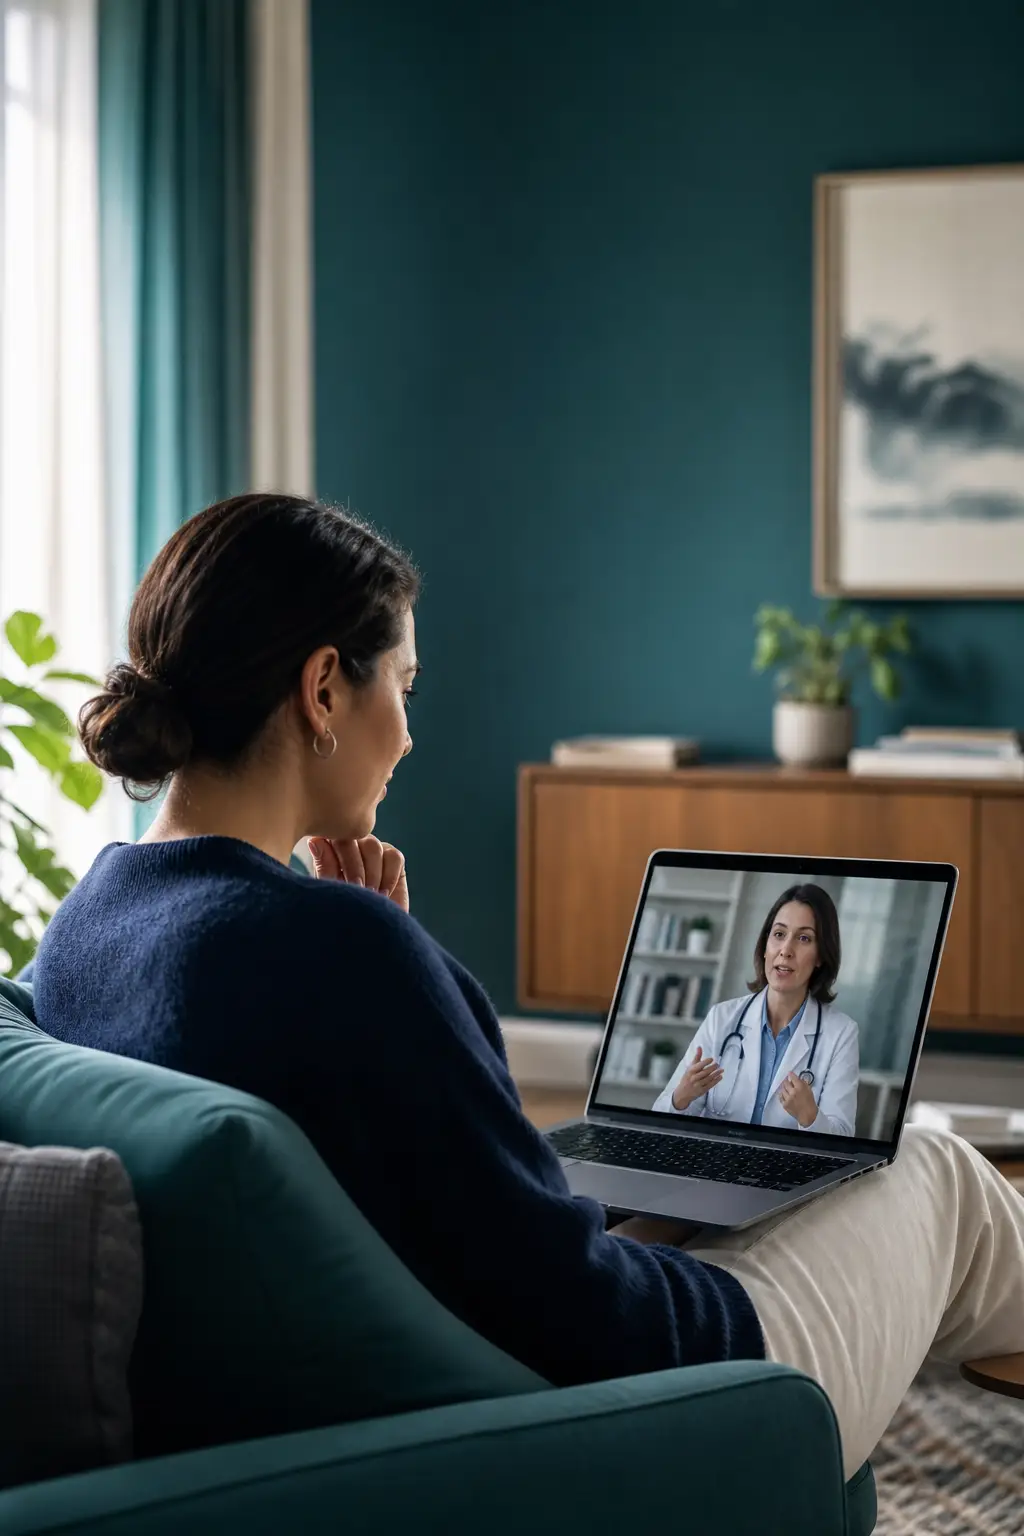
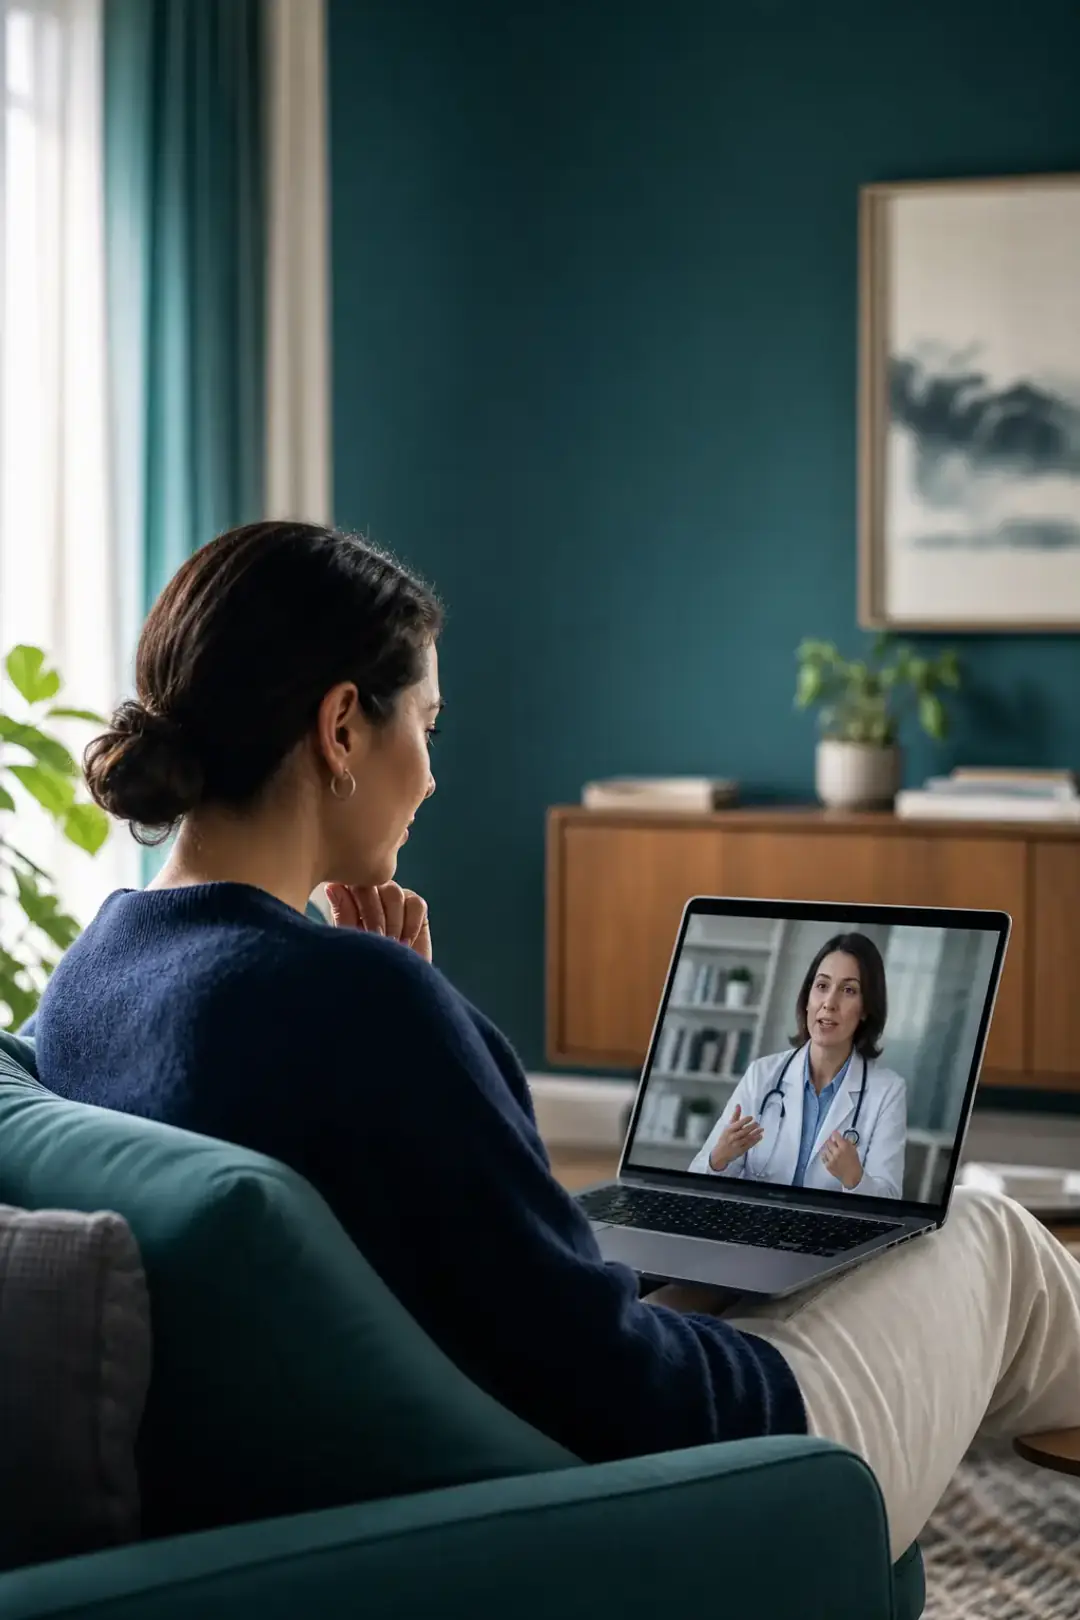
Optimize homepage hero assets for faster LCP with matched desktop/mobile crops.

diff --git a/src/index.css b/src/index.css
@@ -727,19 +727,24 @@ ul { list-style: none; }
 
 .hero__media-frame--desktop {
   display: none;
-  aspect-ratio: 4 / 3;
+  aspect-ratio: 3 / 2;
   min-height: clamp(22rem, 42vw, 34rem);
 }
 
 .hero__media-frame--mobile {
-  aspect-ratio: 4 / 5;
-  max-height: min(78vh, 620px);
+  aspect-ratio: 2 / 3;
+  max-height: min(78vh, 640px);
   margin-inline: auto;
   width: min(100%, 460px);
 }
 
 .hero__media-image {
   object-fit: cover;
+  object-position: center 28%;
+}
+
+.hero__media-frame--mobile .hero__media-image {
+  object-position: center 22%;
 }
 
 .hero-feature {
@@ -2091,7 +2096,7 @@ ul { list-style: none; }
 
   .hero__media-frame--mobile {
     width: 100%;
-    max-height: min(68vh, 480px);
+    max-height: min(78vh, 640px);
   }
   .hero h1 {
     font-size: clamp(2.55rem, 12vw, 3.35rem);

diff --git a/components/HomeHero.jsx b/components/HomeHero.jsx
@@ -58,8 +58,8 @@ export default function HomeHero() {
               alt={media.heroHomeDesktop.alt}
               fill
               priority
-              sizes="(max-width: 1023px) 0px, 50vw"
-              quality={68}
+              sizes="(max-width: 1023px) 0px, min(50vw, 800px)"
+              quality={70}
               className="hero__media-image"
             />
           </div>
@@ -69,8 +69,8 @@ export default function HomeHero() {
               alt={media.heroHomeMobile.alt}
               fill
               priority
-              sizes="(max-width: 1023px) 100vw, 0px"
-              quality={66}
+              sizes="(max-width: 1023px) min(100vw, 460px), 0px"
+              quality={68}
               className="hero__media-image"
             />
           </div>

diff --git a/lib/media.js b/lib/media.js
@@ -4,14 +4,14 @@ export const media = {
   heroHomeDesktop: {
     src: '/images/hero-home-desktop.webp',
     alt: 'Patient connecting with a licensed clinician through a secure telehealth visit at home',
-    width: 1920,
-    height: 1080,
+    width: 1600,
+    height: 1067,
   },
   heroHomeMobile: {
     src: '/images/hero-home-mobile.webp',
     alt: 'Patient connecting with a licensed clinician through a secure telehealth visit at home',
     width: 1080,
-    height: 1440,
+    height: 1620,
   },
   heroLifestyle: {
     src: '/images/hero-lifestyle.webp',